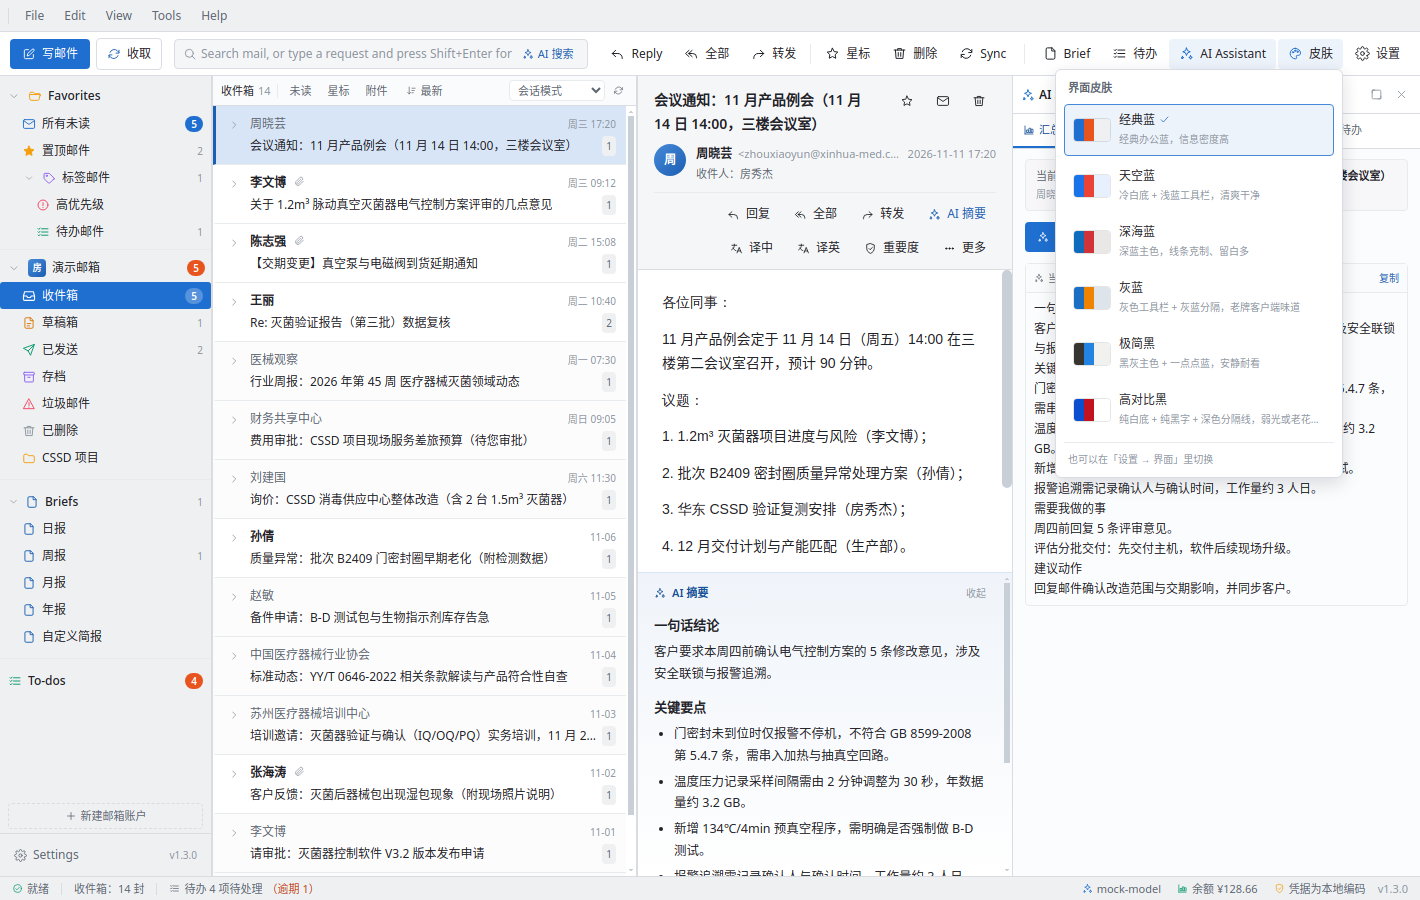
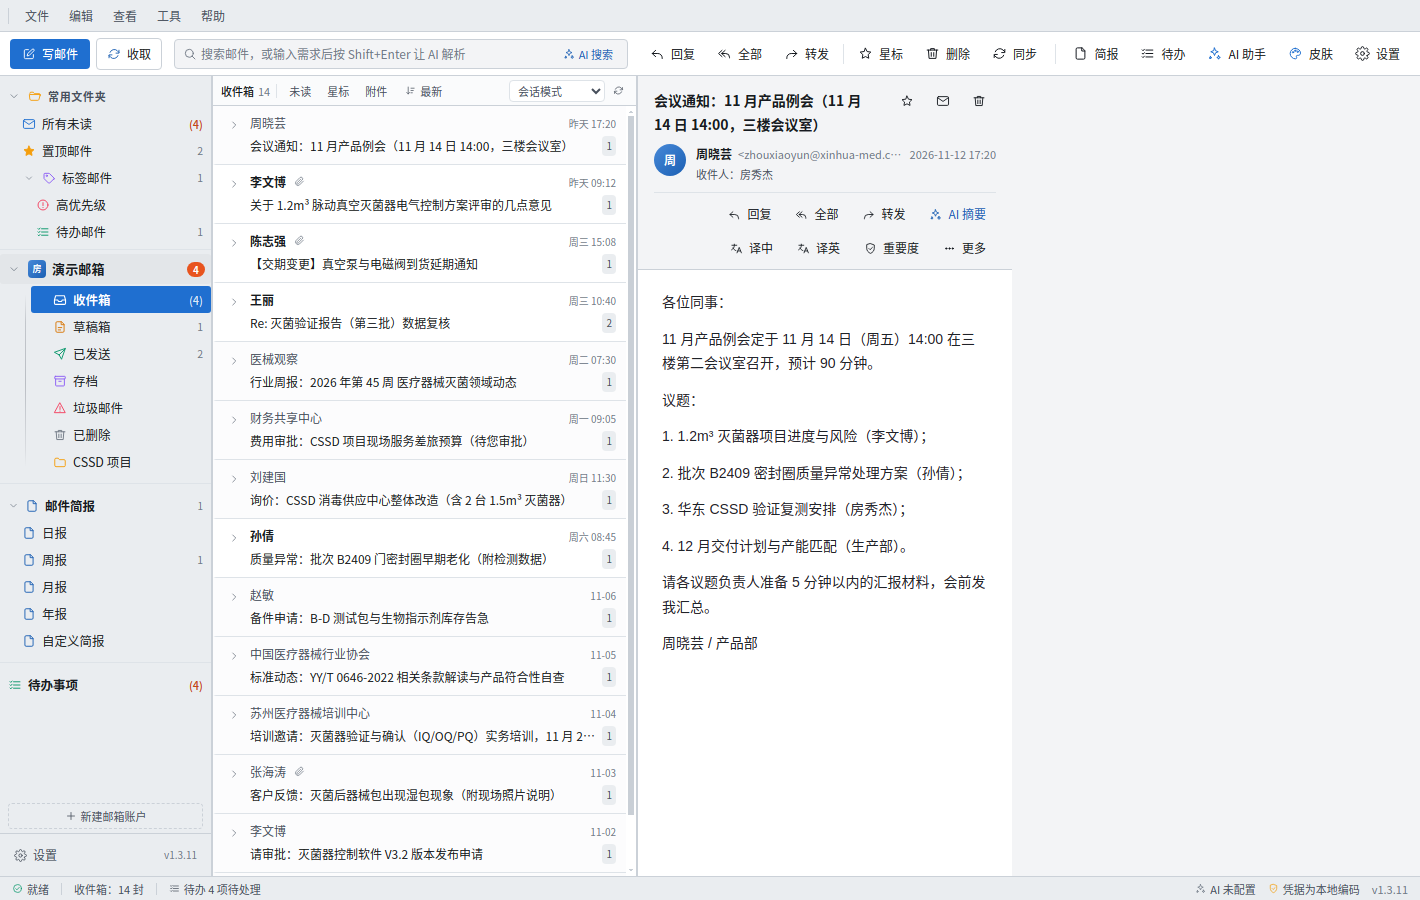
fix(v1.3.12): 更多按钮常驻，文件菜单新增导出邮件原文

diff --git a/src/layout/ReadingPane.tsx b/src/layout/ReadingPane.tsx
@@ -252,17 +252,16 @@ export function ReadingPane() {
               {!action.iconOnly && action.label}
             </button>
           ))}
-          {overflowActions.length > 0 && (
-            <button
-              type="button"
-              className="tool-btn"
-              title="更多操作"
-              onClick={(event) => setMoreMenu({ x: event.clientX, y: event.clientY })}
-            >
-              <Icon name="more" size={13} />
-              更多
-            </button>
-          )}
+          {/* 「更多」常驻：即使操作条没超出上限，也能从这里导出原文、重新解码等 */}
+          <button
+            type="button"
+            className="tool-btn"
+            title="更多操作（导出原文、重新解码等）"
+            onClick={(event) => setMoreMenu({ x: event.clientX, y: event.clientY })}
+          >
+            <Icon name="more" size={13} />
+            更多
+          </button>
         </div>
       </div>
 

diff --git a/src/layout/MenuBar.tsx b/src/layout/MenuBar.tsx
@@ -64,6 +64,13 @@ export function MenuBar() {
       { label: tt('新建邮箱账户…'), onClick: () => openSettings('account') },
       { divider: true, label: tt('') },
       { label: tt('立即同步'), shortcut: 'F5', onClick: () => void syncNow() },
+      {
+        label: tt('导出邮件原文（.eml）'),
+        disabled: !selectedMessageId,
+        onClick: () => {
+          if (selectedMessageId) void store.exportSource(selectedMessageId);
+        },
+      },
       { label: tt('重置演示数据'), onClick: () => void store.resetDemo() },
       { divider: true, label: tt('') },
       { label: tt('退出'), shortcut: 'Alt+F4', onClick: () => window.close() },

diff --git a/CHANGELOG.md b/CHANGELOG.md
@@ -1,3 +1,7 @@
+## [1.3.12] - 2026-11-13
+### 修复
+- 「导出邮件原文（.eml）」入口找不到：阅读窗格操作条右侧的「更多」按钮改为常驻（原来只在操作超出上限时才出现），点击即可导出原文。
+- 同时在「文件」菜单新增「导出邮件原文（.eml）」，选中邮件后可直接导出。
 ## [1.3.11] - 2026-11-13
 ### 新增
 - 删除同步可配置（系统设置 → 系统设置 → 邮件）：
